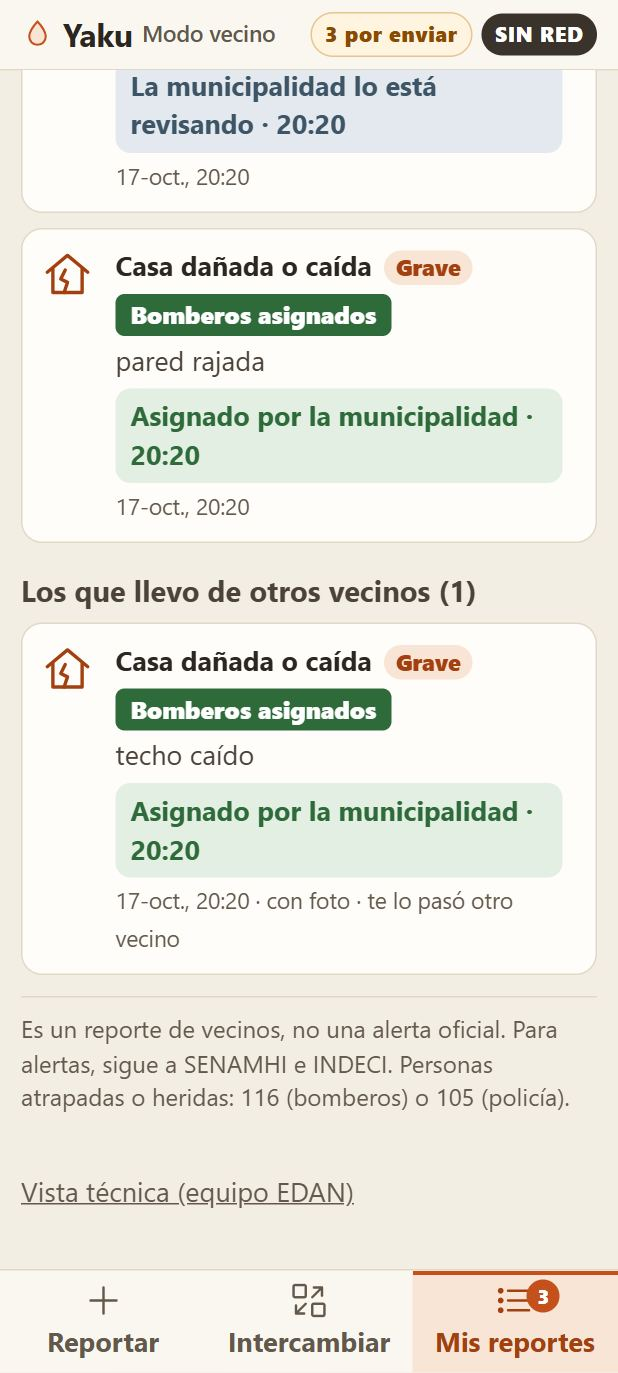
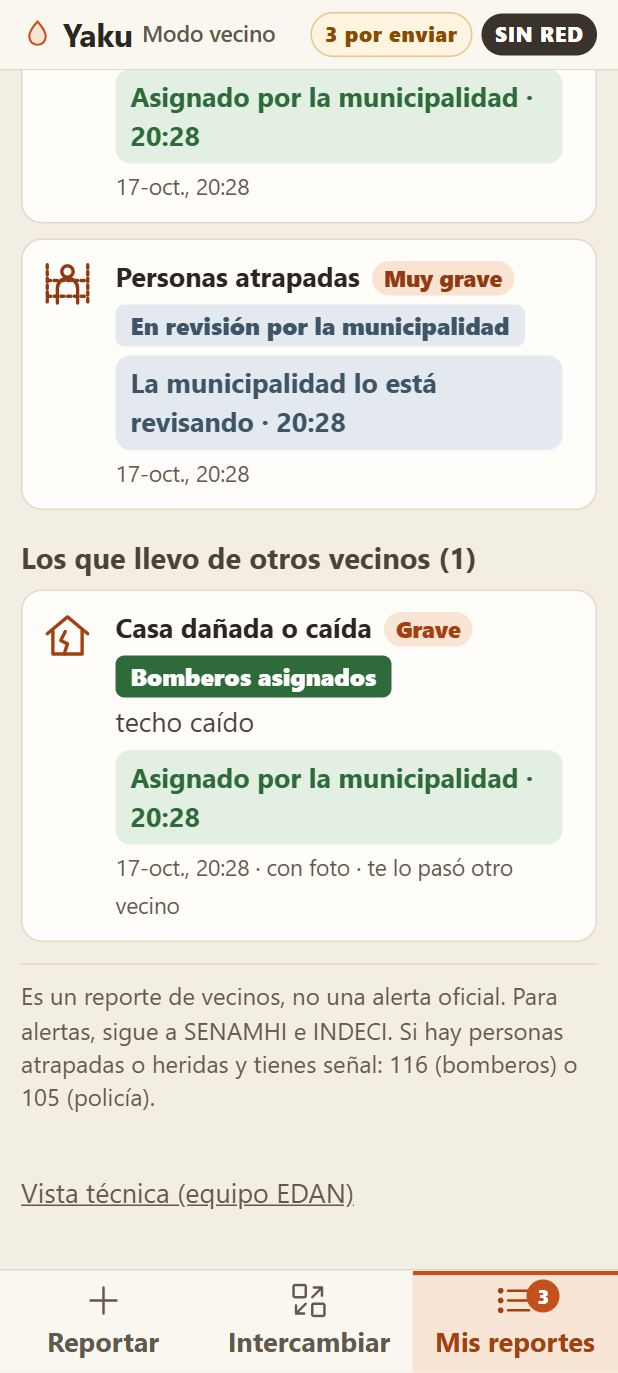
docs(poblador): evidencia E2E con pie legal y descarte nuevos (poblador 20/20, municipalidad 23/23)

diff --git a/tests/poblador.test.ts b/tests/poblador.test.ts
@@ -1,6 +1,8 @@
 // Modo poblador (src/poblador/): tipos ↔ codec, estado de vuelta (servidor y QR «YE1»), vecinos que coinciden,
 // ruta por defecto en celular, plan de compresión de la foto y textos de decision-confianza.md.
 import { describe, it, expect } from 'vitest';
+import fs from 'node:fs';
+import path from 'node:path';
 import { OBS_TYPES, makeObservation, encodeForQR, Reassembler } from '../src/codec';
 import { aCodec, deCodec, BOTONES, MARCA_FOTO } from '../src/poblador/tipos';
 import { leerRespuestaEstados, codificarEstadosQR, decodificarEstadosQR, esCodigoEstados, textoEstado, masReciente, MAX_ESTADOS_QR, type EstadoReporte } from '../src/poblador/estados';
@@ -174,6 +176,33 @@ describe('poblador: textos de decision-confianza.md', () => {
     expect(PIE_LEGAL).toContain('116');
     expect(PIE_LEGAL).toContain('105');
     expect(T.avisoTexto).toMatch(/116.*105/);
+  });
+  it('estados: «no validado» distingue el descarte; pie con «si tienes señal» (§1 reglas)', () => {
+    expect(ESTADO.descartado).toBe('Revisado · no validado');
+    expect(ESTADO.descartado).not.toBe(ESTADO.atendido);
+    expect(PIE_LEGAL).toMatch(/no una alerta oficial/);
+    expect(PIE_LEGAL).toMatch(/tienes señal: 116/);
+    expect(DETALLE.N1(4, 2)).toBe('4 vecinos lo reportan · 2 fotos'); // §2.4 caso F: N1 por antigüedad, no «1 vecino»
+  });
+  it('al vecino nunca el número 0–100: la app del poblador no pinta respaldo ni puntaje', () => {
+    const src = ['app.ts', 'estados.ts', 'textos.ts'].map((f) => fs.readFileSync(path.resolve(__dirname, '../src/poblador', f), 'utf8')).join('\n');
+    expect(src).not.toMatch(/vista3d\/municipalidad|respaldoTxt|\.puntaje|\.respaldo\b|\.score\b|`Respaldo/);
+    for (const n of [1, 2, 3, 7]) expect(DETALLE[nivelLocal(n)](n, 1)).not.toMatch(/respaldo|%|\/ ?100|\bN[123]\b/i);
+  });
+  it('nunca rojo en la pantalla del poblador (el rojo es de las alertas oficiales)', () => {
+    const css = fs.readFileSync(path.resolve(__dirname, '../src/poblador/poblador.css'), 'utf8');
+    const rojos: string[] = [];
+    for (const [hex] of css.matchAll(/#(?:[0-9a-f]{6}|[0-9a-f]{3})\b/gi)) {
+      const h = hex.length === 4 ? hex.slice(1).split('').map((c) => c + c).join('') : hex.slice(1);
+      const [r, g, b] = [0, 2, 4].map((i) => parseInt(h.slice(i, i + 2), 16) / 255);
+      const max = Math.max(r, g, b), min = Math.min(r, g, b), d = max - min, l = (max + min) / 2;
+      if (d === 0) continue;
+      const s = d / (1 - Math.abs(2 * l - 1));
+      const hue = max === r ? (60 * ((g - b) / d) + 360) % 360 : max === g ? 60 * ((b - r) / d + 2) : 60 * ((r - g) / d + 4);
+      if (s > 0.35 && (hue < 12 || hue > 340)) rojos.push(hex);
+    }
+    expect(css).not.toMatch(/\b(red|crimson|firebrick|tomato)\b\s*[;)}]/i);
+    expect(rojos).toEqual([]);
   });
   it('nunca «vía segura» ni «transitable»', () => {
     const todo = JSON.stringify({ T, ESTADO, PIE_LEGAL, B: BOTONES.map((b) => b.texto) }) + Object.values(DETALLE).map((f) => f(2, 1)).join();

diff --git a/src/poblador/textos.ts b/src/poblador/textos.ts
@@ -3,13 +3,19 @@
 // nombres: ROTULO_VECINAL, DETALLE, ESTADO, PIE_LEGAL. Reglas: un reporte vecinal nunca es una alerta oficial y
 // lo valida la municipalidad (CP art. 315-A); al vecino se le muestra el nivel en palabras, nunca el número
 // 0–100; nunca rojo para un reporte vecinal; «coinciden», no «confirman».
-// Única desviación escrita: la acción dice «asignados», no «en camino» (decisión §1 tabla ACCION): Yaku solo sabe
-// que la municipalidad ASIGNÓ la acción, no si el equipo salió; prometer «en camino» a alguien atrapado y que no
-// llegue es peor que decir menos. Igual que WP3 (src/vista3d/municipalidad/textos.ts).
+// Desviaciones escritas (las tres vienen de producto/descubrimiento/voz-poblador-rotulo.md, revisión B2C de §1):
+// 1. La acción dice «asignados», no «en camino» (§1 tabla ACCION): Yaku solo sabe que la municipalidad ASIGNÓ la
+//    acción, no si el equipo salió; prometer «en camino» a alguien atrapado y que no llegue es peor que decir menos.
+// 2. DESCARTADO dice «Revisado · no validado», no «Revisado por la municipalidad»: B2C lo marcó como corrección
+//    obligatoria antes de la demo, porque «Revisado» a secas suena a «ya lo vieron, está bien» y no se distingue de
+//    ATENDIDO. Cierra la serie por validar → validado / no validado sin acusar a nadie de mentir.
+// 3. PIE_LEGAL usa la versión de las reglas de §1 («…y tienes señal…»), no la constante corta: §1 tenía las dos y
+//    Yaku está hecho para cuando no hay red.
+// N1 usa n (no «1 vecino» fijo): un incidente viejo de 4 personas cae a N1 por antigüedad (§2.4 caso F).
 
 /** Chip que reemplaza «NO VERIFICADO». El mismo en N1, N2 y N3. */
 export const ROTULO_VECINAL = 'Reporte vecinal · por validar';
-export const PIE_LEGAL = 'Es un reporte de vecinos, no una alerta oficial. Para alertas, sigue a SENAMHI e INDECI. Personas atrapadas o heridas: 116 (bomberos) o 105 (policía).';
+export const PIE_LEGAL = 'Es un reporte de vecinos, no una alerta oficial. Para alertas, sigue a SENAMHI e INDECI. Si hay personas atrapadas o heridas y tienes señal: 116 (bomberos) o 105 (policía).';
 
 export type Nivel = 'N1' | 'N2' | 'N3';
 const fotosTxt = (f: number) => `${f} foto${f === 1 ? '' : 's'}`;
@@ -33,7 +39,7 @@ export const ESTADO = {
   validado: 'Validado por la municipalidad',
   accion: (a: Accion | undefined) => (a ? ACCION_TXT[a] : 'Acción asignada por la municipalidad'),
   atendido: 'Atendido por la municipalidad',
-  descartado: 'Revisado por la municipalidad',
+  descartado: 'Revisado · no validado',
 };
 /** Detalle de cada estado (hh:mm de Lima). */
 export const ESTADO_DETALLE = {

diff --git a/tests/vista3d-municipalidad-incidentes.test.ts b/tests/vista3d-municipalidad-incidentes.test.ts
@@ -62,7 +62,7 @@ describe('municipalidad: textos de decision-confianza.md §1', () => {
     expect(estadoChip('nuevo', null)).toBe(ROTULO_VECINAL);
     expect(estadoChip('validado', null)).toBe('Validado por la municipalidad');
     expect(estadoChip('accion_asignada', 'bomberos')).toBe('Bomberos asignados');
-    expect(estadoChip('descartado', null)).toBe('Revisado por la municipalidad');
+    expect(estadoChip('descartado', null)).toBe('Revisado · no validado');
     expect(DETALLE.N1(1, 0)).toBe('1 vecino lo reporta');
     expect(DETALLE.N1(1, 1)).toBe('1 vecino · 1 foto');
     expect(DETALLE.N2(2, 1)).toBe('2 vecinos lo reportan · 1 foto');

diff --git a/src/poblador/LEEME.md b/src/poblador/LEEME.md
@@ -16,7 +16,19 @@ Al volver la red se sincroniza solo (`POST /api/sync`, el mismo de la app técni
 ## Reglas de texto (agentards/producto/decision-confianza.md)
 - Constantes únicas en `textos.ts`: `ROTULO_VECINAL`, `DETALLE`, `ESTADO`, `ESTADO_DETALLE`, `PIE_LEGAL`, `FOTOS_PENDIENTES`. WP3 las importa.
 - Al vecino nunca se le muestra el número 0–100; nunca rojo para un reporte vecinal; verde solo validado / acción / atendido; «coinciden», no «confirman».
-- **Desviación escrita:** la acción dice «Bomberos **asignados**», no «en camino»: Yaku solo sabe que la municipalidad asignó la acción, no si el equipo salió.
+- El rótulo vecinal reemplaza al marcador provisional «Reporte vecinal · confianza N» del plan: el nivel solo cambia el detalle en palabras y la intensidad del ámbar.
+- **Desviaciones escritas** (revisión B2C `producto/descubrimiento/voz-poblador-rotulo.md`; razones en la cabecera de `textos.ts`):
+  - la acción dice «Bomberos **asignados**», no «en camino»: Yaku solo sabe que la municipalidad asignó la acción, no si el equipo salió;
+  - el descarte dice «**Revisado · no validado**», no «Revisado por la municipalidad», que se leía como «ya lo vieron, está bien»;
+  - el pie usa la versión de las reglas de §1, con «si … tienes señal: 116 o 105».
+- Las pruebas fijan las reglas: sin rojo en `poblador.css` (tono 340°–12° con saturación > 35 % falla) y sin respaldo/puntaje en `app.ts`, `estados.ts` ni `textos.ts`.
+
+## Guion de demo (A ↔ B): la foto la toma **B**
+1. **A** (sin red) reporta «Casa dañada o caída», **sin foto**.
+2. **B** (sin red) reporta lo mismo a unos 40 m y **toma la foto**. Los dos celulares muestran «2 vecinos lo reportan · 1 foto» después de Intercambiar.
+3. **B** recupera internet: sube los 2 reportes **y su foto**. La municipalidad ve «2 vecinos · 1 foto» (respaldo 75 · N2, §2.4 caso B) y el contador sube de 1 a 2.
+
+Si la foto la toma A (que no recupera internet), la foto no viaja por QR y el panel muestra «1 foto pendiente de subir» con respaldo 60 en lugar de 75. Lo mismo comprueban `npm run e2e:poblador` y `scripts/ensayo-demo.mjs`.
 - Primera vez: aviso de datos personales (ubicación + código anónimo, sin nombre ni DNI; art. 315-A).
 
 ## Tipos nuevos sin romper QR viejos

diff --git a/src/vista3d/municipalidad/CONTRATO-API.md b/src/vista3d/municipalidad/CONTRATO-API.md
@@ -15,7 +15,7 @@ alternativos entre paréntesis, horas en segundos, milisegundos o ISO 8601.
   "fotos": ["foto-id-1", "foto-id-2"], // ids para GET /api/fotos/:id (foto_ids); "n_fotos" si faltan por subir
   "primer_reporte": 1760753000000,   // reloj del celular (primer_ts); "ultimo_reporte" (ultimo_ts)
   "recibido": 1760753100000,         // última llegada al servidor (received_at); opcional
-  "puntaje": 65,                     // 0–100 (confianza|score); si falta, la pantalla usa el provisional de textos.ts
+  "puntaje": 65,                     // respaldo 0–100 (respaldo|confianza|score); si falta, la pantalla lo calcula con respaldo() de textos.ts (§2.1). Solo el panel lo muestra
   "estado": "nuevo",                 // nuevo | en_revision | validado | descartado | accion_asignada | atendido
   "accion": null,                    // rescate | bomberos | provisiones | maquinaria | edan
   "motivo": "",                      // si descartado
